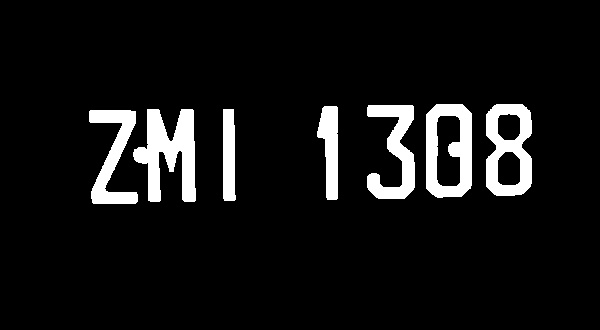
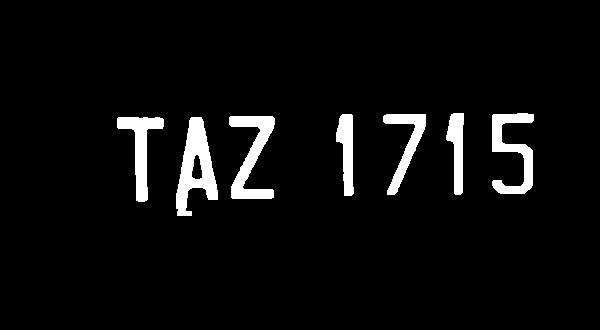
main

Changed region(s): [[0.51, 0.303, 0.9, 0.6061], [0.15, 0.3333, 0.48, 0.6667]]

diff --git a/Project/ITC6009ProjectMain.py b/Project/ITC6009ProjectMain.py
@@ -7,110 +7,159 @@ import cv2
 import matplotlib.pyplot as plt
 import numpy as np
 import easyocr
+import os
+from datetime import datetime
 #from paddleocr import PaddleOCR
  
 
-# Read image from which text needs to be extracted
-img = cv2.imread("Project\LicensePlates\griekenland102.jpg")
+def grayscale(img):
+    return cv2.cvtColor(img, cv2.COLOR_BGR2GRAY)
+
+
+def otsuthreshold(img):
+    return cv2.threshold(img, 0, 255, cv2.THRESH_OTSU | cv2.THRESH_BINARY_INV)
+
+
+def erode(img,iter):
+    return cv2.erode(img, None, iterations=iter)
+
+
+def dilate(img,iter):
+    return cv2.dilate(img, None, iterations=iter)
  
-# Preprocessing the image starts
- 
-# Convert the image to gray scale
-gray = cv2.cvtColor(img, cv2.COLOR_BGR2GRAY)
- 
-# Performing OTSU threshold
-ret, thresh1 = cv2.threshold(gray, 0, 255, cv2.THRESH_OTSU | cv2.THRESH_BINARY_INV)
 
-cv2.imshow('gray',gray)
-cv2.imshow('inverted',thresh1)
-cv2.waitKey(0)
-thresh = cv2.erode(thresh1, None, iterations=2)
-thresh = cv2.dilate(thresh, None, iterations=2)
-
-
-#cv2.imshow('thresh',thresh)
-#cv2.waitKey(0)
-# thresh = cv2.bitwise_not(thresh)
-cv2.imshow('thresh',thresh)
-cv2.waitKey(0)
-
-ret, labels, stats, centroids = cv2.connectedComponentsWithStats(thresh)
-mask = np.zeros(thresh.shape, dtype="uint8")
-
-
-for i in range(0, ret):
-    # if this is the first component then we examine the
-    # *background* (typically we would just ignore this
-    # component in our loop)
-    if i == 0:
-        text = (f"examining component {i+1}/{ret} (background)")
-    # otherwise, we are examining an actual connected component
-    elif stats[i, cv2.CC_STAT_AREA]/img.size*100 < 0.18:
-        text = (f"examining component {i +1}/{ret} (small component)")
-    else:
-        text = (f"examining component {i +1}/{ret}")
-    # print a status message update for the current connected
-    # component
-    print(f"[INFO] {text}")
-    # extract the connected component statistics and centroid for
-    # the current label
-    x = stats[i, cv2.CC_STAT_LEFT]
-    y = stats[i, cv2.CC_STAT_TOP]
-    w = stats[i, cv2.CC_STAT_WIDTH]
-    h = stats[i, cv2.CC_STAT_HEIGHT]
-    area = stats[i, cv2.CC_STAT_AREA]
-    (cX, cY) = centroids[i]
+def examineComponents(TotalComponents,labels,stats,centroids,img,thresh):
+    mask = np.zeros(thresh.shape, dtype="uint8")
+    for i in range(0, TotalComponents):
+        # if this is the first component then we examine the
+        # *background* (typically we would just ignore this
+        # component in our loop)
+        if i == 0:
+            text = (f"examining component {i+1}/{TotalComponents} (background)")
+        # otherwise, we are examining an actual connected component
+        elif stats[i, cv2.CC_STAT_AREA]/img.size*100 < 0.18:
+            text = (f"examining component {i +1}/{TotalComponents} (small component)")
+        else:
+            text = (f"examining component {i +1}/{TotalComponents}")
+        # print a status message update for the current connected
+        # component
+        print(f"[INFO] {text}")
+        # extract the connected component statistics and centroid for
+        # the current label
+        x = stats[i, cv2.CC_STAT_LEFT]
+        y = stats[i, cv2.CC_STAT_TOP]
+        w = stats[i, cv2.CC_STAT_WIDTH]
+        h = stats[i, cv2.CC_STAT_HEIGHT]
+        area = stats[i, cv2.CC_STAT_AREA]
+        (cX, cY) = centroids[i]
 
 
-    keepWidth = w/img.shape[1]*100 > 1.6 and w/img.shape[1]*100 < 11
-    keepHeight = h/img.shape[0]*100 > 20 and h/img.shape[0]*100 < 50
-    keepArea = area/img.size*100 > 0.09 and area/img.size*100 < 0.6
+        keepWidth = w/img.shape[1]*100 > 1.6 and w/img.shape[1]*100 < 11
+        keepHeight = h/img.shape[0]*100 > 20 and h/img.shape[0]*100 < 50
+        keepArea = area/img.size*100 > 0.09 and area/img.size*100 < 0.6
 
-    # for i in range(0,ret):
-    #     print(f'Width Component{i}:{stats[i, cv2.CC_STAT_WIDTH]/img.shape[1]*100}')
-    #     print(f'Height Component{i}:{stats[i, cv2.CC_STAT_HEIGHT]/img.shape[0]*100}')
-    #     print(f'Area Component{i}:{stats[i, cv2.CC_STAT_AREA]/img.size*100}')
+        #debug components
+        # for i in range(0,ret):
+        #     print(f'Width Component{i}:{stats[i, cv2.CC_STAT_WIDTH]/img.shape[1]*100}')
+        #     print(f'Height Component{i}:{stats[i, cv2.CC_STAT_HEIGHT]/img.shape[0]*100}')
+        #     print(f'Area Component{i}:{stats[i, cv2.CC_STAT_AREA]/img.size*100}')
 
-    # clone our original image (so we can draw on it) and then draw
-    # a bounding box surrounding the connected component along with
-    # a circle corresponding to the centroid
-    output = img.copy()
-    cv2.rectangle(output, (x, y), (x + w, y + h), (0, 255, 0), 3)
-    cv2.circle(output, (int(cX), int(cY)), 4, (0, 0, 255), -1)
+        # clone our original image (so we can draw on it) and then draw
+        # a bounding box surrounding the connected component along with
+        # a circle corresponding to the centroid
+        output = img.copy()
+        cv2.rectangle(output, (x, y), (x + w, y + h), (0, 255, 0), 3)
+        cv2.circle(output, (int(cX), int(cY)), 4, (0, 0, 255), -1)
 
-    componentMask = (labels == i).astype("uint8") * 255
-    # show our output image and connected component mask
-    cv2.imshow("Output", output)
-    cv2.imshow("Connected Component", componentMask)
-    cv2.waitKey(0)
-
-    if all((keepWidth, keepHeight, keepArea)):
-        # construct a mask for the current connected component and
-        # then take the bitwise OR with the mask 
-        print(f"[INFO] keeping connected component '{i+1}'")
         componentMask = (labels == i).astype("uint8") * 255
-        mask = cv2.bitwise_or(mask, componentMask)
+        # show our output image and connected component mask
+        cv2.imshow("Output", output)
+        cv2.imshow("Connected Component", componentMask)
+        cv2.waitKey(0)
+
+        if all((keepWidth, keepHeight, keepArea)):
+            # construct a mask for the current connected component and
+            # then take the bitwise OR with the mask 
+            print(f"[INFO] keeping connected component '{i+1}'")
+            componentMask = (labels == i).astype("uint8") * 255
+            mask = cv2.bitwise_or(mask, componentMask)
+    return mask    
 
 
-cv2.imshow("Image", img)
-cv2.imshow("Characters", mask)
-cv2.imwrite('Project\Results\Tracked.jpg',mask)
-cv2.waitKey(1)
+def checkResultFile(path):
+    if os.path.isfile(path):
+        return True
+    else:
+        #create the file
+        file = open(path, "w")
+        file.write("")
+        file.close()
+        return True
 
-file = open("Project\Results\Recognized.txt", "w")
-file.write("")
-file.close()
 
-IMAGE_PATH = 'Project\Results\Tracked.jpg'
-reader = easyocr.Reader(['en'])
-result = reader.readtext(IMAGE_PATH)
-for detection in result:
-    if detection[2] > 0.45:
-        file = open("Project\Results\Recognized.txt", "a")
-        file.write(detection[1])
-file.close()
+def writeResults(result,path):
+    if checkResultFile(path):
+        for detection in result:
+            if detection[2] > 0.45:
+                file = open(path, "a")
+                file.write(detection[1])
+        file.write(' ' + datetime.now().strftime("%d/%m/%Y %H:%M:%S"))
+        file.write('\n')
+        file.close()
      
 
-print('done')
+def ocr(path):
+    #IMAGE_PATH = 'Project\Results\Tracked.jpg'
+    reader = easyocr.Reader(['en'])
+    results = reader.readtext(path)
+    return results
 
 
+def main():
+
+    # Read image from which text needs to be extracted
+    image = cv2.imread("Project\LicensePlates\griekenland75.jpg")
+
+
+
+
+    impath = 'Project\Results\Tracked.jpg'
+    respath = 'Project\Results\Recognized.txt'
+    # Preprocessing the image starts
+ 
+    # Convert the image to gray scale
+    gray = grayscale(image)
+    
+    # Performing OTSU threshold
+    ret, otsuthresh = otsuthreshold(gray)
+
+    cv2.imshow('gray',gray)
+    cv2.imshow('OTSU Thresholded',otsuthresh)
+    cv2.waitKey(0)
+    thresh = erode(otsuthresh,2)
+    thresh = dilate(thresh,2)
+
+    #cv2.imshow('thresh',thresh)
+    #cv2.waitKey(0)
+    #thresh = cv2.bitwise_not(thresh)
+    # cv2.imshow('thresh',thresh)
+    # cv2.waitKey(0)
+
+    ret, labels, stats, centroids = cv2.connectedComponentsWithStats(thresh)
+
+    mask = examineComponents(ret,labels,stats,centroids,image,thresh)
+    # cv2.imshow("Image", img)
+    # cv2.imshow("Characters", mask)
+    cv2.imwrite(impath,mask)
+    #cv2.waitKey(0)
+
+    results = ocr(impath)
+    writeResults(results,respath)
+    print('done')
+
+
+
+if __name__ == '__main__':
+    print(datetime.now())
+    main()
+    print(datetime.now())
